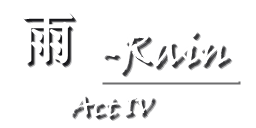
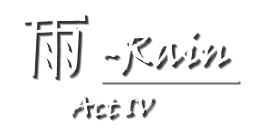
The kanji are drawn now, not set -- and the generator is in the repo
The tester looked at the rebuilt dusk card and said the kanji had not
changed. He was right: the weight, the Latin hand and the rule had all
moved, and the glyph had not, because it was still a font glyph. Yu Gothic
is a uniform slab and SimSun only has small wedge serifs; the 2009 cards are
painted, with a blunt entry, a belly and a tapered exit on every stroke.

So tools/cards/brush.ps1 draws them. A stroke is a centreline (Catmull-Rom
through a few control points) plus a WIDTH AT EVERY POINT, swept into a
filled ribbon -- thick where the brush presses, nothing where it lifts. A
glyph is a list of strokes in a 0-100 box, unioned with FillMode.Winding:
with the default alternate rule every crossing punches a hole, which is
exactly what the first render did.

夕 and 雨 are drawn this way and now sit at the 2009 ink size (63x64 and
52x62 against Water's 63x69), so the five cards read as one set. Nothing
hand-painted is regenerated: boss.png is still the 2009 水, its word and its
rule, with only the line beneath repainted "Final", and that pass is
idempotent.

The generator is versioned with a README that says how to add a character,
because a bitmap nobody can regenerate is a dead end.

Changed region(s): [[0.0938, 0.125, 0.375, 0.6562]]

diff --git a/tools/cards/README.md b/tools/cards/README.md
@@ -1,0 +1,42 @@
+# The act title cards
+
+The five cards the acts show at their prolog (`data/data/titles/*.png`,
+256×128, white ink on transparent, a dark halo down-right):
+
+| card | file | drawn by |
+|---|---|---|
+| 明 – Dawn / Act I | `dawnTitle.png` | painted, 2009 |
+| 希望 – Hope / Act II | `hopeTitle.png` | painted, 2009 |
+| 夕 – Dusk / Act III | `duskTitle.png` | here |
+| 雨 – Rain / Act IV | `rainTitle.png` | here |
+| 水 – Water / Final | `boss.png` | painted 2009, with only the line beneath redrawn |
+
+Run it from this directory (Windows, System.Drawing):
+
+    powershell -File make_cards.ps1
+
+It overwrites the three cards it owns. `boss.png` is treated as source *and*
+destination on purpose and the operation is idempotent: it copies the rows
+above the numeral band from the existing file — the 2009 水, the word, the
+rule, all untouched — and repaints only "Final" beneath. Nothing hand-painted
+is ever regenerated.
+
+## Why the kanji are drawn and not set
+
+The 2009 cards are painted: every stroke has a blunt entry, a belly and a
+tapered exit. No installed CJK face has that. Yu Gothic is a uniform slab;
+SimSun only has small wedge serifs at the stroke ends. Round 59 first
+rebuilt the dusk card with a widened SimSun and the tester spotted it
+immediately — the weight, the Latin hand and the rule had all changed, and
+the glyph had not.
+
+So `brush.ps1` draws them. A stroke is a centreline (Catmull-Rom through a few
+control points) plus a **width at every control point**, swept into a filled
+ribbon: thick where the brush presses, nothing where it lifts. A glyph is a
+list of strokes in a 0–100 box, unioned with `FillMode.Winding` — with the
+default alternate rule every crossing punches a hole, which is what the first
+render did.
+
+Adding a character means adding a stroke list. The fastest way to place the
+control points is to render the font glyph large under a grid, read the
+skeleton off it, then iterate: the shapes here took three passes.
